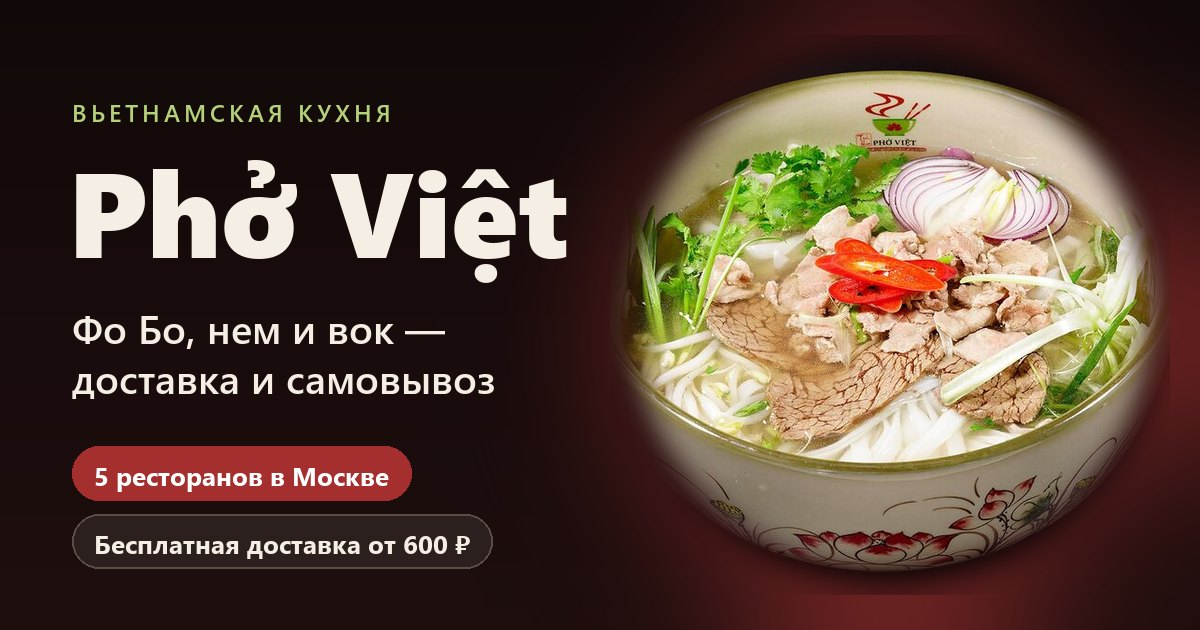
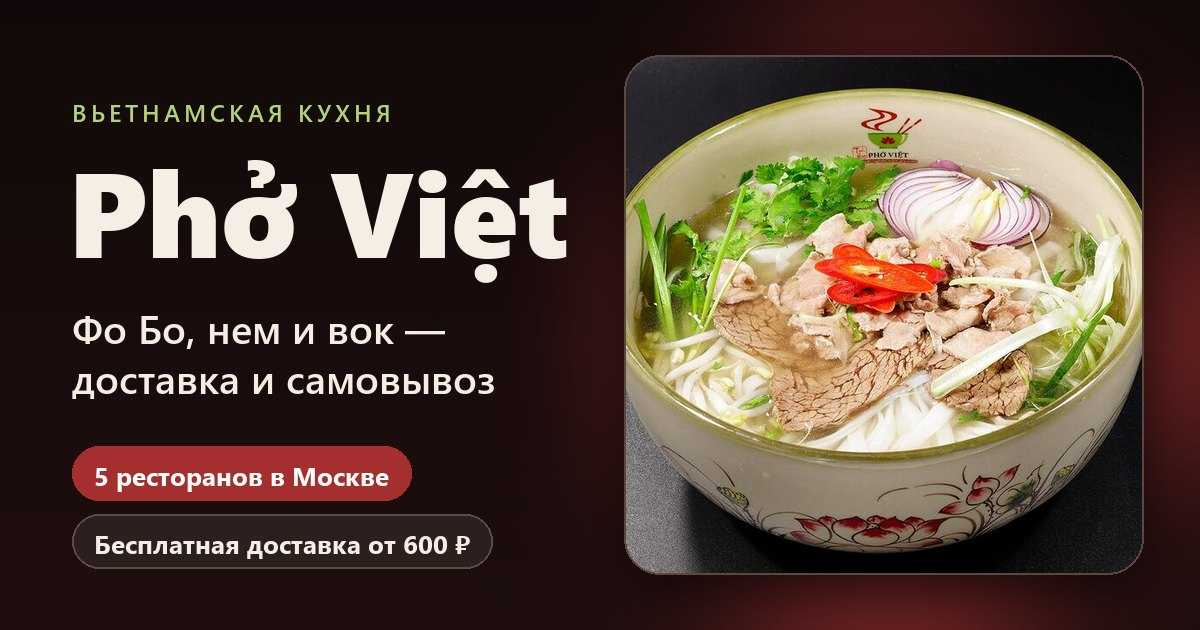
Карточка ссылки: Фо Бо целиком, без обрезки чаши
Круглая маска срезала края и низ чаши — теперь фото на скруглённой плитке.
og:image → og.jpg?v=2, чтобы сервисы забрали новую картинку.

Changed region(s): [[0.4933, 0.0603, 0.9867, 0.9651]]

diff --git a/public/index.html b/public/index.html
@@ -12,7 +12,7 @@
   <meta property="og:title" content="Phở Việt — вьетнамская кухня с доставкой">
   <meta property="og:description" content="Фо Бо, нем, бань бао и другие блюда вьетнамской кухни. 5 ресторанов в Москве, доставка и самовывоз, бесплатная доставка от 600 ₽.">
   <meta property="og:url" content="https://pho-viet-site.onrender.com/">
-  <meta property="og:image" content="https://pho-viet-site.onrender.com/og.jpg?v=1">
+  <meta property="og:image" content="https://pho-viet-site.onrender.com/og.jpg?v=2">
   <meta property="og:image:width" content="1200">
   <meta property="og:image:height" content="630">
   <meta property="og:image:alt" content="Phở Việt — вьетнамская кухня с доставкой">

diff --git a/public/menu.html b/public/menu.html
@@ -12,7 +12,7 @@
   <meta property="og:title" content="Меню — Phở Việt, вьетнамская кухня">
   <meta property="og:description" content="Фо Бо, нем, бань бао и другие блюда вьетнамской кухни. 5 ресторанов в Москве, доставка и самовывоз, бесплатная доставка от 600 ₽.">
   <meta property="og:url" content="https://pho-viet-site.onrender.com/menu">
-  <meta property="og:image" content="https://pho-viet-site.onrender.com/og.jpg?v=1">
+  <meta property="og:image" content="https://pho-viet-site.onrender.com/og.jpg?v=2">
   <meta property="og:image:width" content="1200">
   <meta property="og:image:height" content="630">
   <meta property="og:image:alt" content="Phở Việt — вьетнамская кухня с доставкой">
